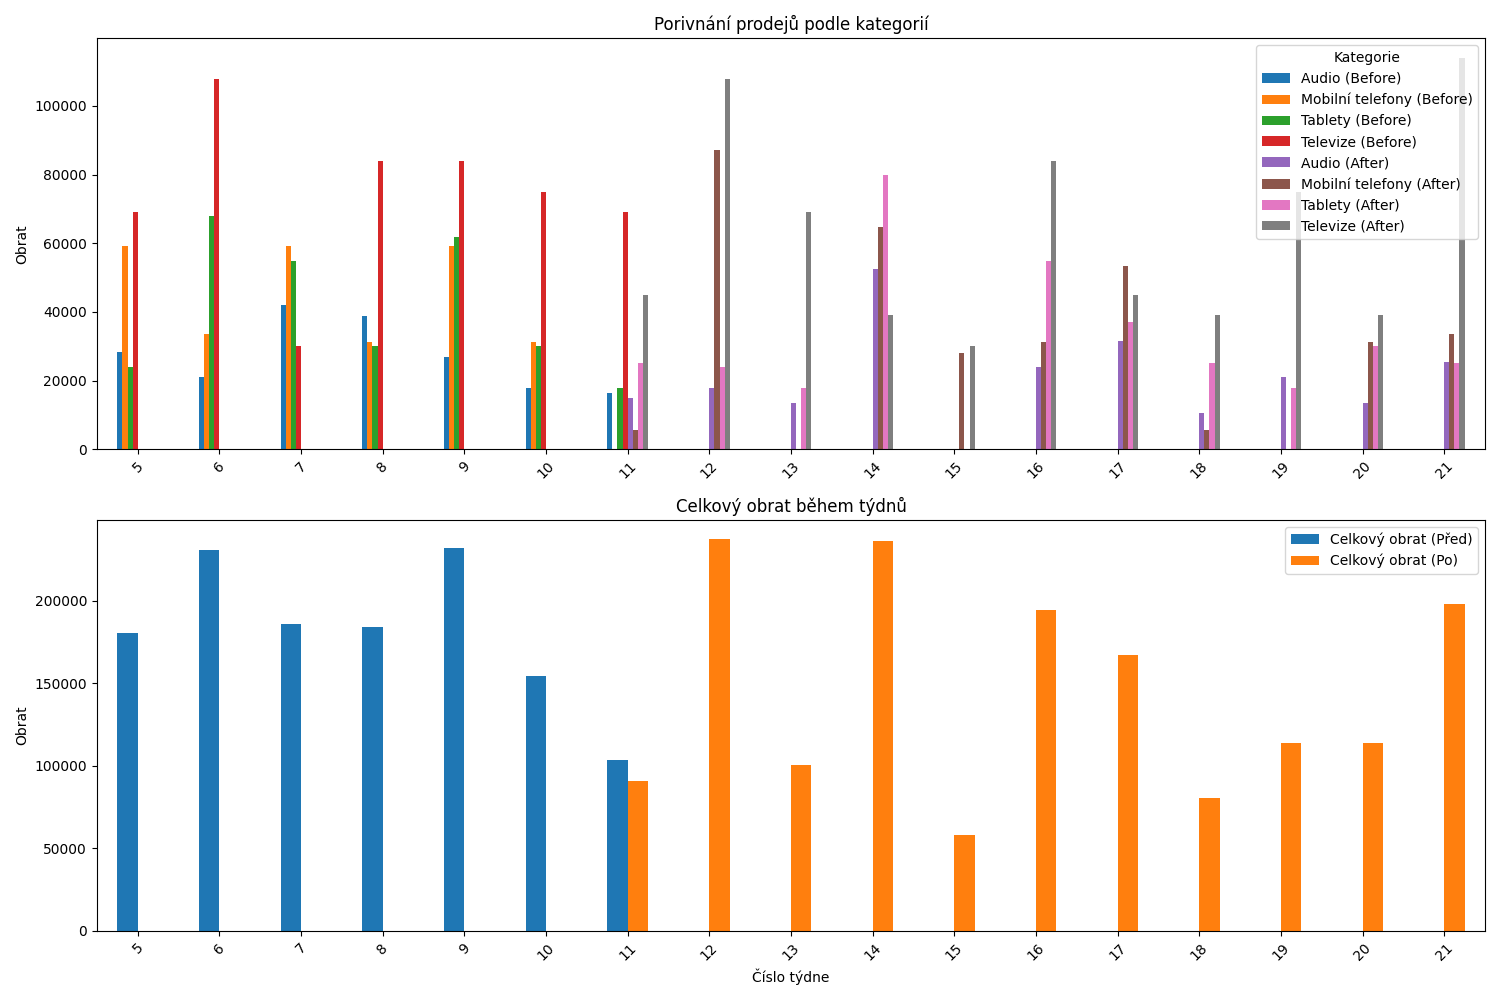
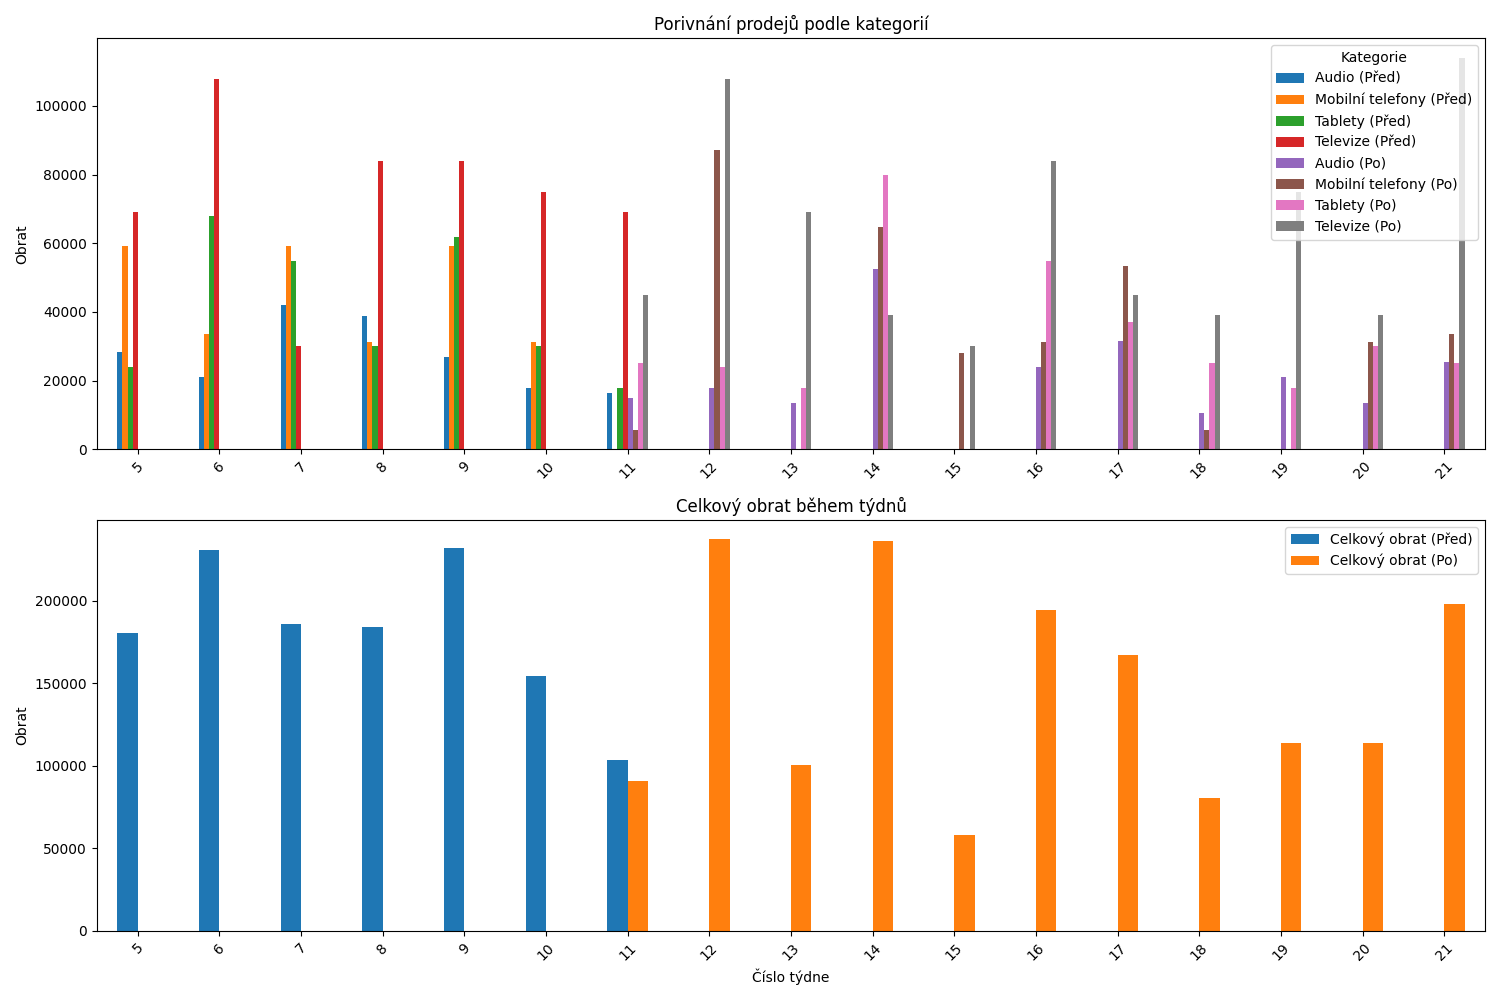
snad final

Changed region(s): [[0.828, 0.031, 0.9813, 0.248]]

diff --git a/úloha_4.py b/úloha_4.py
@@ -22,8 +22,8 @@ sales_after = df_merged[df_merged['Date'] >= budget_increase_date].groupby('Week
 
 # Porovnáme obrat před a po zvýšení rozpočtu
 sales_comparison = pd.DataFrame({'Obrat před': sales_before, 'Obrat po': sales_after}).fillna(0) #vytvoříme dataframe pro porovnání
-average_sales_before = sales_comparison['Obrat před'].mean() #spočítáme průměrný obrat (za týden) před zvýšením rozpočtu
-average_sales_after = sales_comparison['Obrat po'].mean() #spočítáme průměrný obrat (za týden) po zvýšení rozpočtu
+average_sales_before = sales_comparison[sales_comparison['Obrat před']>0]['Obrat před'].mean() #spočítáme průměrný obrat (za týden) před zvýšením rozpočtu
+average_sales_after = sales_comparison[sales_comparison['Obrat po'] > 0]['Obrat po'].mean() #spočítáme průměrný obrat (za týden) po zvýšení rozpočtu
 # Vypíšeme výsledky
 print("Srovnání prodejů před a po navýšení rozpočtu na online marketing podle týdnů:")
 print(sales_comparison)
@@ -33,7 +33,7 @@ print(f"Průměr obratu za týden po zvýšení rozpočtu: {average_sales_after:
 # Vytvoříme df pro porovnání prodejů před a po zvýšení rozpočtu a rozdělíme to podle kategorií
 sales_before = df_merged[df_merged['Date'] < budget_increase_date].groupby(['Week', 'Category'])['Revenue'].sum().unstack(fill_value=0)
 sales_after = df_merged[df_merged['Date'] >= budget_increase_date].groupby(['Week', 'Category'])['Revenue'].sum().unstack(fill_value=0)
-sales_comparison = pd.concat([sales_before.add_suffix(' (Before)'), sales_after.add_suffix(' (After)')], axis=1) # sloučíme data pro porovnání
+sales_comparison = pd.concat([sales_before.add_suffix(' (Před)'), sales_after.add_suffix(' (Po)')], axis=1) # sloučíme data pro porovnání
 
 '''
 # Выводим результаты (pro kontrolu)
